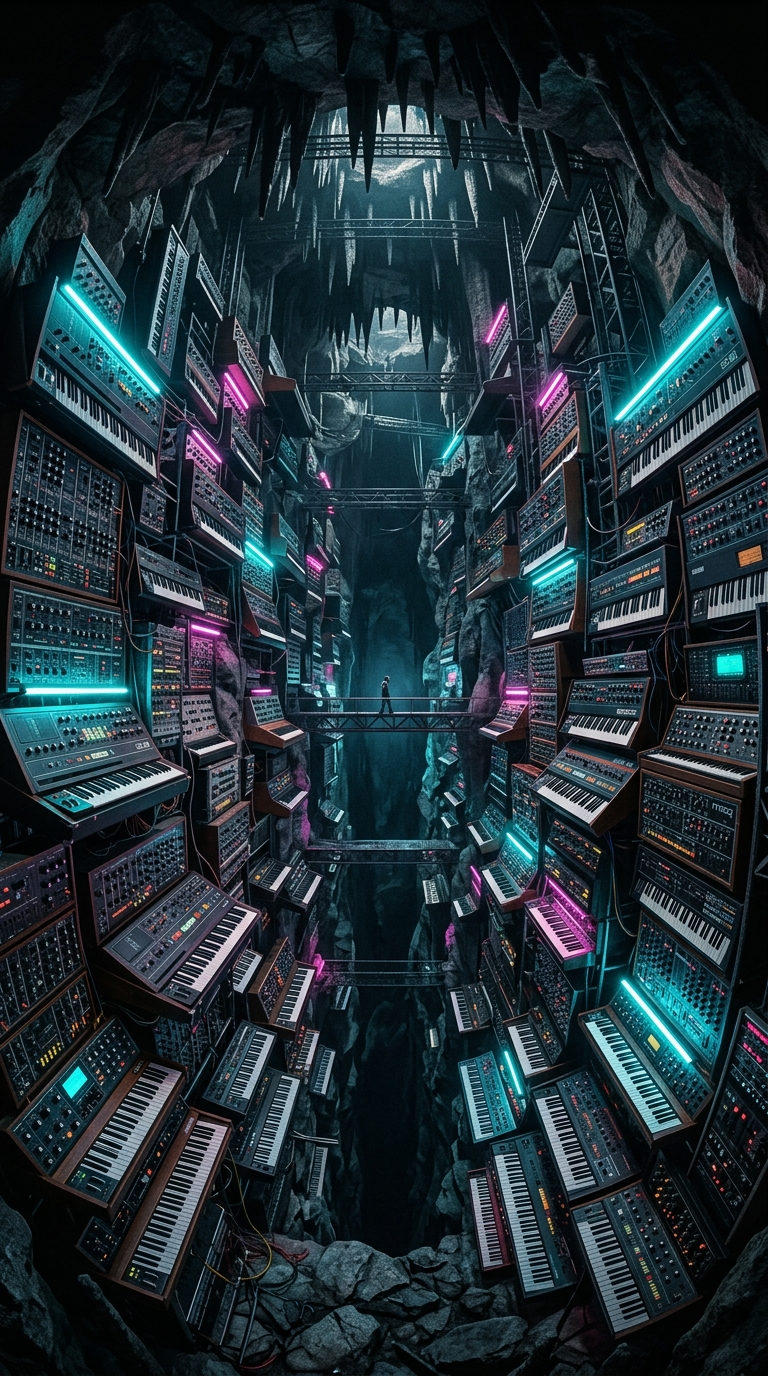
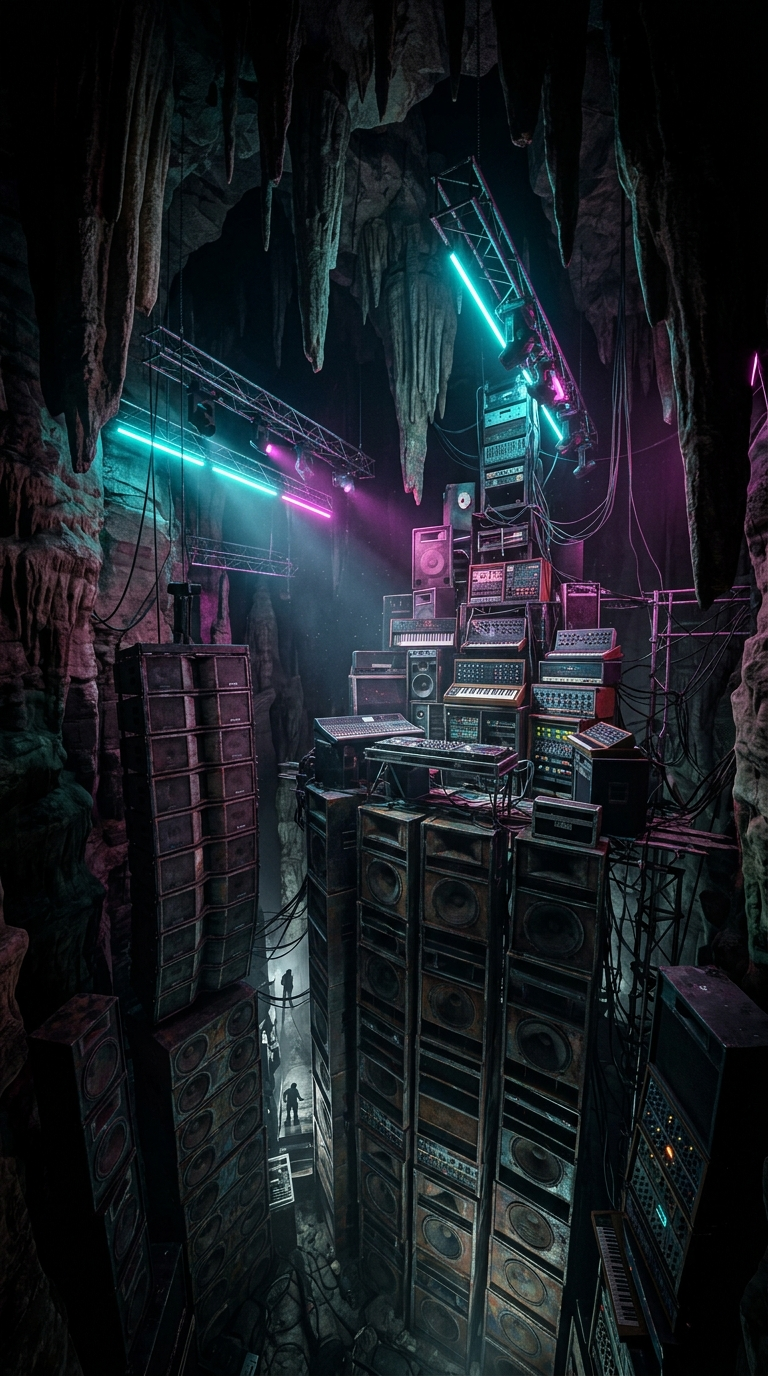
Docs: Update to massive buried festival background and ensure all panels are ultra-translucent

diff --git a/DOCS/style.css b/DOCS/style.css
@@ -224,9 +224,9 @@ h1, h2, h3, h4, .logo { font-family: var(--font-heading); }
 .p-icon:hover { opacity: 1; transform: translateY(-10px); }
 
 .device-stack { position: relative; height: 350px; }
-.mock-device { position: absolute; background: rgba(5, 5, 8, 0.8); border: var(--glass-border); border-radius: 16px; padding: 15px; box-shadow: 0 20px 40px rgba(0,0,0,0.8); }
+.mock-device { position: absolute; background: rgba(5, 5, 8, 0.1); border: var(--glass-border); border-radius: 16px; padding: 15px; box-shadow: 0 20px 40px rgba(0,0,0,0.4); backdrop-filter: blur(12px); -webkit-backdrop-filter: blur(12px); }
 .mock-device.desktop { width: 100%; height: 250px; top: 0; left: 0; z-index: 1; }
-.mock-device.mobile { width: 150px; height: 300px; bottom: 0; right: 20px; z-index: 2; background: rgba(10,10,15,0.9); backdrop-filter: blur(15px); }
+.mock-device.mobile { width: 150px; height: 300px; bottom: 0; right: 20px; z-index: 2; background: rgba(10,10,15,0.1); backdrop-filter: blur(12px); -webkit-backdrop-filter: blur(12px); }
 .mock-header { font-size: 0.7rem; color: var(--text-secondary); text-align: center; margin-bottom: 15px; letter-spacing: 1px; font-weight: 700; }
 .wave-line { height: 2px; width: 100%; background: linear-gradient(90deg, transparent, var(--synth-cyan), transparent); margin-top: 40px; box-shadow: 0 0 10px var(--synth-cyan); }
 .wave-line.vertical { height: 100%; width: 2px; background: linear-gradient(180deg, transparent, var(--synth-magenta), transparent); margin: 0 auto; box-shadow: 0 0 10px var(--synth-magenta); }
